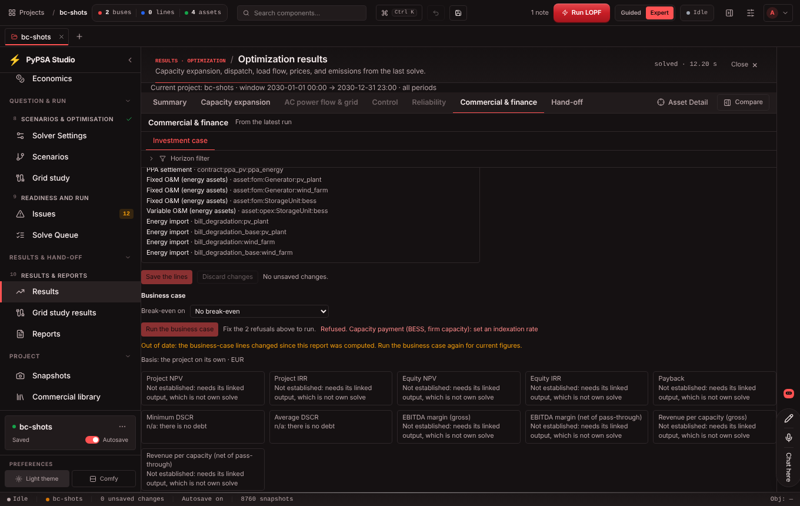
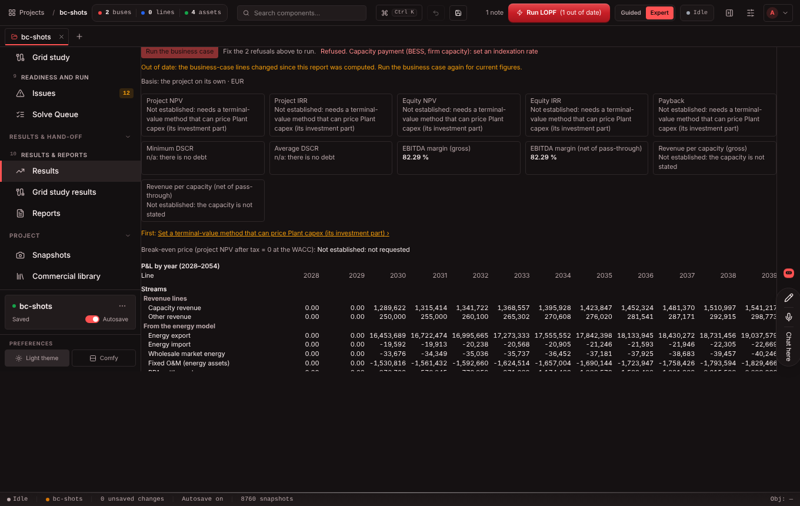
Business case: a repeated key segment reads once; retaken refusal and locked-row shots (UX 2 on #1683)
Claude-Session: https://claude.ai/code/session_01G7qCuj3XyAPXuuFi8DjCM8

diff --git a/pypsa-gui/frontend/src/pages/results/investment/businessCaseWords.test.ts b/pypsa-gui/frontend/src/pages/results/investment/businessCaseWords.test.ts
@@ -66,6 +66,8 @@ describe('locked rows and model outputs in display names (walk 06, UX 2)', () =>
     // Two rows that would read alike read in full, never as twins.
     expect(ledgerKeysWords(['asset:export:Generator:pv_plant', 'bill:export:pv_plant', 'bill:network_charges']))
       .toEqual(['Asset · Export · PV plant', 'Bill · Export · PV plant', 'Network charges'])
+    // A segment repeated next to itself reads once.
+    expect(ledgerKeyWords('export_price:export_price:pv_plant', true)).toBe('Export price · PV plant')
   })
   it('words the asset at the end of an output label, and keeps other labels', () => {
     expect(outputLabelWords('Capacity in service: wind_farm')).toBe('Capacity in service: Wind farm')

diff --git a/pypsa-gui/frontend/src/pages/results/investment/businessCaseWords.ts b/pypsa-gui/frontend/src/pages/results/investment/businessCaseWords.ts
@@ -128,7 +128,8 @@ export function ledgerKeyWords(key: string, full = false): string {
   const name = ID.test(last) ? idWords(last) : last
   if (full) {
     // Every segment but a component class ("Generator"), to tell two rows apart.
-    return parts.filter(p => ID.test(p) || p === last).map(p => (ID.test(p) ? idWords(p) : p)).join(' · ')
+    const w = parts.filter(p => ID.test(p) || p === last).map(p => (ID.test(p) ? idWords(p) : p))
+    return w.filter((x, i) => x !== w[i - 1]).join(' · ')
   }
   return parts[0] === 'bill_degradation' ? `Degradation, ${name}` : name
 }
